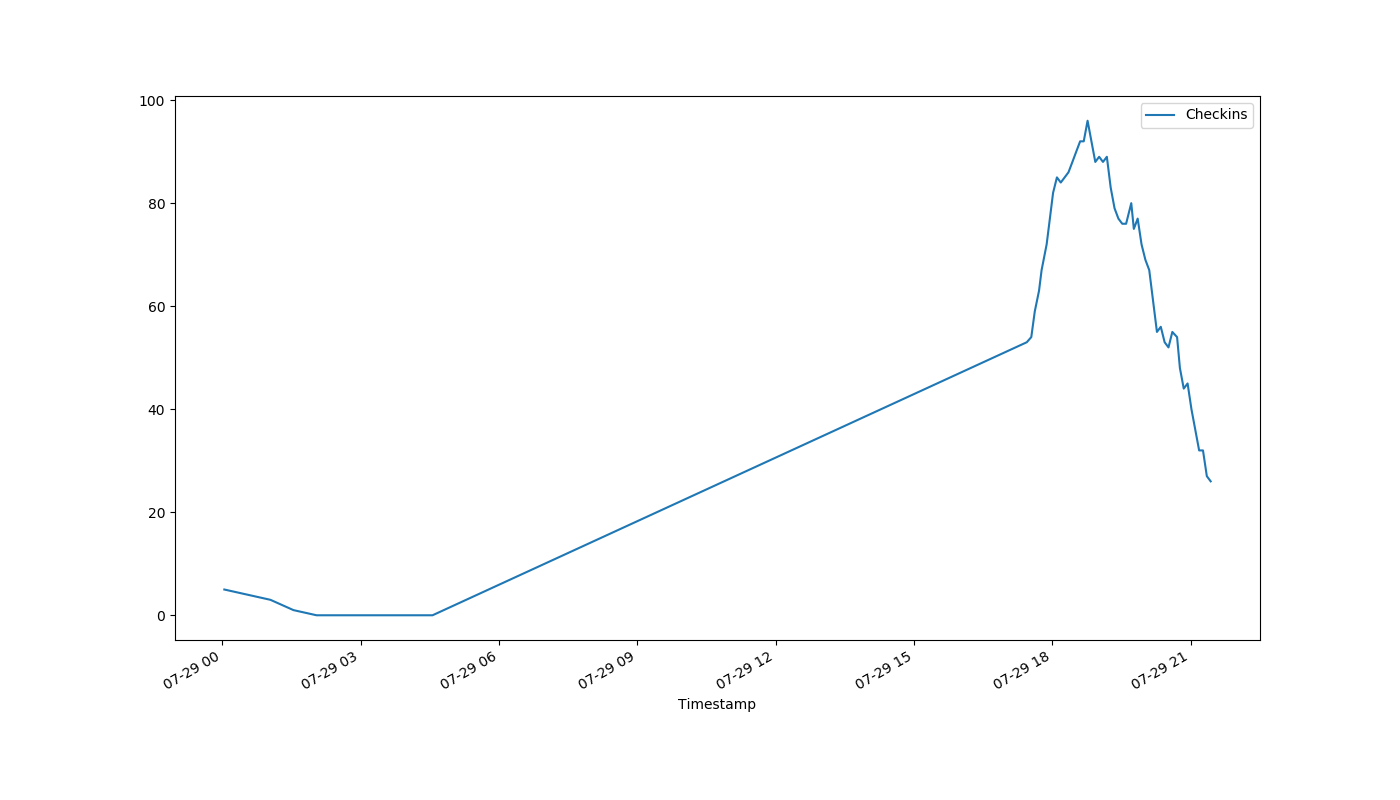
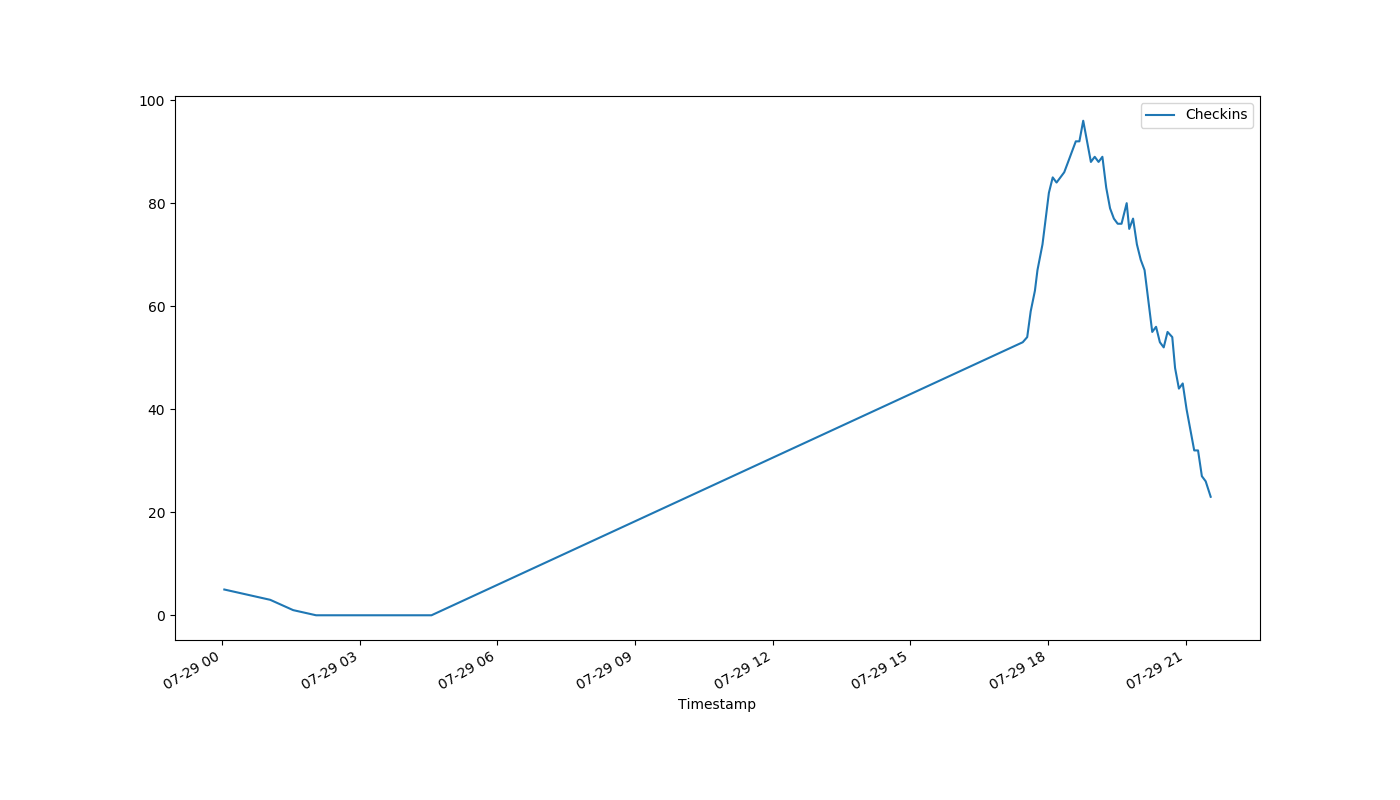
auto-Jul-29-21:34:34

diff --git a/index.html b/index.html
@@ -1,1 +1,1 @@
-<!DOCTYPE html><html><head><meta http-equiv="refresh" content="30"><link rel='stylesheet' href='holmcurrent.css'></head><body><p id='count'>-1</p><div id='graph-wrap'><img id='graph' src='holmgraph-Jul-29.png'></div><p id='updated'>Last updated 21:32:08 / 21:31:21</p></body></html>
+<!DOCTYPE html><html><head><meta http-equiv="refresh" content="30"><link rel='stylesheet' href='holmcurrent.css'></head><body><p id='count'>23</p><div id='graph-wrap'><img id='graph' src='holmgraph-Jul-29.png'></div><p id='updated'>Last updated 21:33:08 / 21:32:42</p></body></html>
